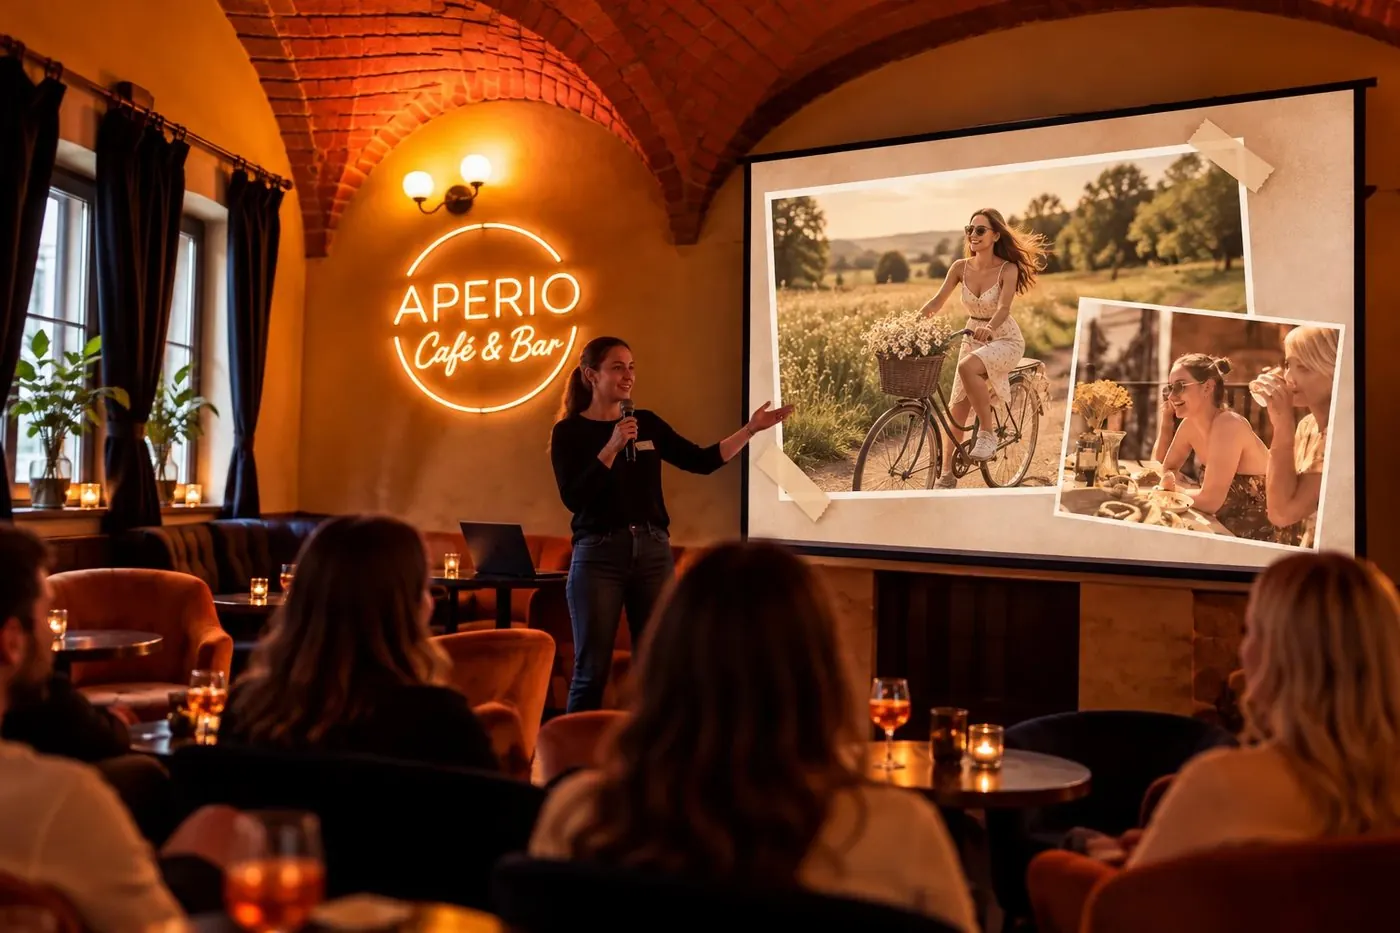
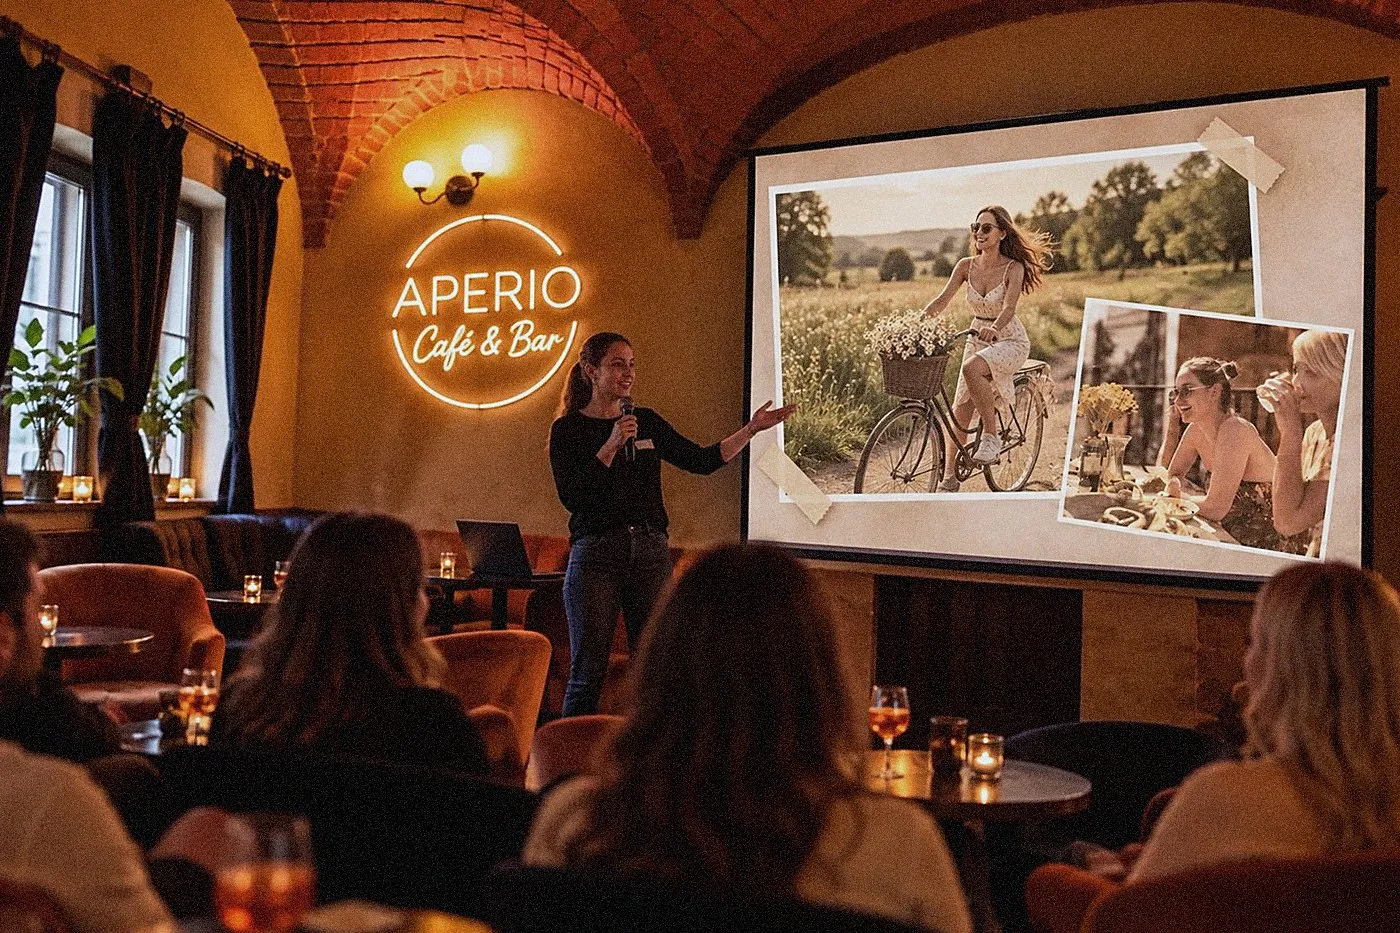
SINGLES SHOW: realistickejšia fotka APERIO

diff --git a/single-show.html b/single-show.html
@@ -82,7 +82,7 @@
           </ul>
         </div>
         <div class="show-intro-photo">
-          <img fetchpriority="high" src="img/show-hero-aperio.webp" srcset="img/show-hero-aperio-800.webp 800w, img/show-hero-aperio.webp 1400w" sizes="(max-width: 760px) 100vw, 50vw" alt="Moderátorka v bare s mikrofónom ukazuje na plátno s fotkami, publikum sedí pri sviečkach" width="1400" height="933">
+          <img fetchpriority="high" src="img/show-hero-aperio.webp?v=2" srcset="img/show-hero-aperio-800.webp?v=2 800w, img/show-hero-aperio.webp?v=2 1400w" sizes="(max-width: 760px) 100vw, 50vw" alt="Moderátorka v bare s mikrofónom ukazuje na plátno s fotkami, publikum sedí pri sviečkach" width="1400" height="933">
           <p class="hand show-side-note show-intro-hand">Žiadne neosobné profily z appky ani nekonečné swipovanie.</p>
         </div>
       </div>
